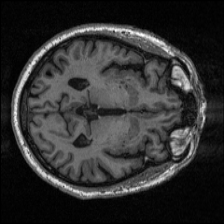
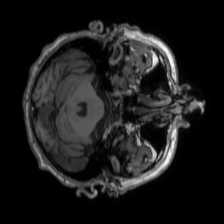
HPC-Nov3-version

diff --git a/app/main_distributed.py b/app/main_distributed.py
@@ -96,7 +96,7 @@ def launch_app_with_parsed_args(
     partition,
     timeout=4300,
     nodes=1,
-    tasks_per_node=2,
+    tasks_per_node=4,
     exclude_nodes=None
 ):
     executor = submitit.AutoExecutor(
@@ -105,7 +105,7 @@ def launch_app_with_parsed_args(
     executor.update_parameters(
         slurm_partition=partition,
         # slurm_mem_per_gpu='128G', 
-        slurm_mem='128G',
+        slurm_mem='192G',
         timeout_min=timeout,
         nodes=nodes,
         tasks_per_node=tasks_per_node,

diff --git a/src/datasets/mri_dataset.py b/src/datasets/mri_dataset.py
@@ -199,7 +199,7 @@ class MRIDataset(torch.utils.data.Dataset):
             volume = self.resize(volume, crop_sizes={1: 224, 2: 224})
             
             # save one png file for debugging
-            plt.imsave('slice.png', volume[100], cmap='gray')
+            # plt.imsave('slice.png', volume[100], cmap='gray')
 
             # Preprocess the volume: intensity normalization
             volume = self.preprocess_volume(volume)
